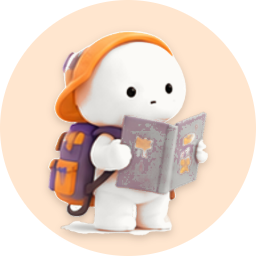
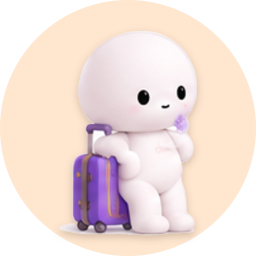
FE pictures from Farin's new white high-res sheet: 13 poses re-cut solid white (cut-sheet2.mjs), notification pictures repainted, SW v23 (Farin 2026-11-21: "THIS IS BETTER, they are white and higher resolution") (farin-english 72a9052e)
Deploy exactly farin-english 72a9052e:app

Changed region(s): [[0.1875, 0.0938, 0.8125, 0.9375], [0.4688, 0.3125, 0.625, 0.4062]]

diff --git a/farin-sw.js b/farin-sw.js
@@ -1,4 +1,4 @@
-const CACHE = 'farin-english-v22';   // v22 2026-11-21: the roadmap box scrolls on its own, current card at its top, no earlier-cards bar; v21 2026-11-21: sharp 900 px FE p-cheer, welcome card 300 px; v20 2026-11-21: Home opens at the top, current card first under the earlier-cards bar; v19 2026-11-21: welcome card = FE cheering, 200 px; v18 2026-11-21: admin class rows keep the name column (actions shrink + wrap); v17 2026-11-21: Messages v2 (clean list, brand status pills, admin reply context + edit/delete);   // v16 2026-11-21: welcome card = FE medal + confetti; v15 2026-11-21: admin Group classes, gold frame + Offer sent tick; v14 2026-11-21: roadmap cards (purple/white/orange, no symbols, solid circles, page report card, Home opens on the current card, plan bubble off); v13 2026-11-21: onboarding redesign + welcome screen; v11 2026-11-20: FE white (art/fe, notif/*, icon-*.png repainted under the same names), only the clean pose set
+const CACHE = 'farin-english-v23';   // v22 2026-11-21: the roadmap box scrolls on its own, current card at its top, no earlier-cards bar; v21 2026-11-21: sharp 900 px FE p-cheer, welcome card 300 px; v20 2026-11-21: Home opens at the top, current card first under the earlier-cards bar; v19 2026-11-21: welcome card = FE cheering, 200 px; v18 2026-11-21: admin class rows keep the name column (actions shrink + wrap); v17 2026-11-21: Messages v2 (clean list, brand status pills, admin reply context + edit/delete);   // v16 2026-11-21: welcome card = FE medal + confetti; v15 2026-11-21: admin Group classes, gold frame + Offer sent tick; v14 2026-11-21: roadmap cards (purple/white/orange, no symbols, solid circles, page report card, Home opens on the current card, plan bubble off); v13 2026-11-21: onboarding redesign + welcome screen; v11 2026-11-20: FE white (art/fe, notif/*, icon-*.png repainted under the same names), only the clean pose set
 const CACHE_PREFIX = CACHE.replace(/\d+$/, '');   // 'farin-english-v' / 'farin-spanish-v'
 const PAGE_URL = self.registration.scope;
 /* Cozy Chores painted art (Trello 1m2Y0zdU, 8JAiLuV7): the game's plates and cut-outs are sibling files
